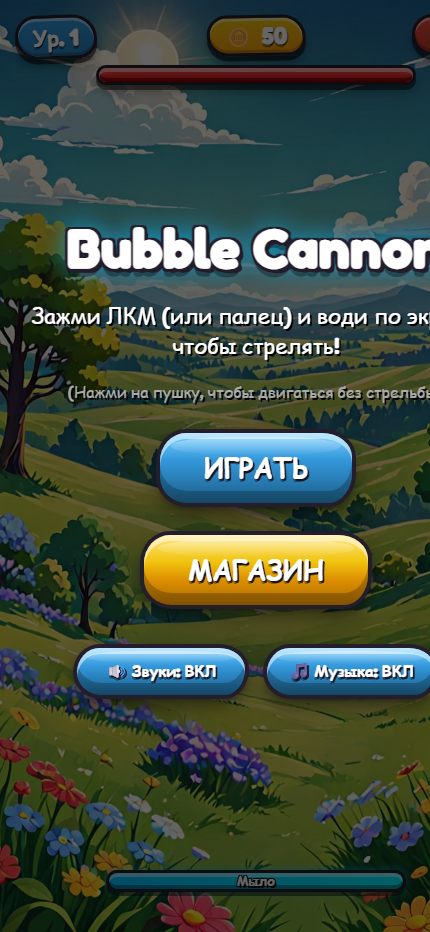
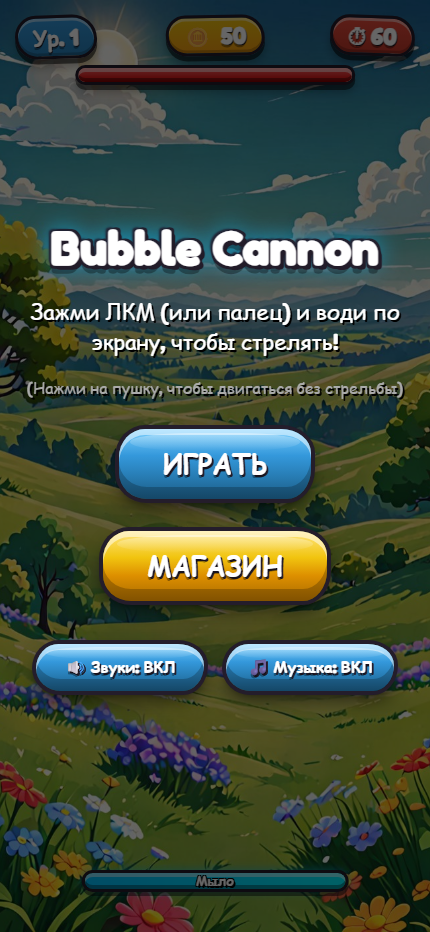
Phone frame fits screen, mobile CTA fix, portrait screenshot

diff --git a/game/play.html b/game/play.html
@@ -7,7 +7,7 @@
 <style>
   html,body{margin:0;height:100%;background:#0b0f14;overflow:hidden}
   #stage{position:fixed;inset:0;display:flex;align-items:center;justify-content:center}
-  #phone{position:relative;width:min(100vw,calc(100vh * 9 / 16));height:min(100vh,calc(100vw * 16 / 9));
+  #phone{position:relative;width:min(100vw,calc((100vh - 74px) * 9 / 16));height:min(calc(100vh - 74px),calc(100vw * 16 / 9));
          background:#000;border-radius:28px;overflow:hidden;box-shadow:0 0 0 10px #171d25,0 0 0 12px #2a3441,0 30px 70px rgba(0,0,0,.75)}
   #phone iframe{display:block;width:100%;height:100%;border:0}
   .hint{position:fixed;left:0;right:0;bottom:10px;text-align:center;color:#5d6b7a;font:14px/1.4 system-ui,sans-serif;pointer-events:none}

diff --git a/index.html b/index.html
@@ -69,6 +69,7 @@
   footer{border-top:1px solid var(--line);padding:26px 0 40px;color:#6f7d8c;font-size:14px;display:flex;justify-content:space-between;gap:16px;flex-wrap:wrap}
 
   @media(max-width:900px){
+    .hero .btn.ghost{display:inline-block;margin:10px 0 0}
     .hero{grid-template-columns:1fr;padding-top:36px}
     .hero h1{font-size:38px}
     .herochar{grid-template-columns:1fr}
